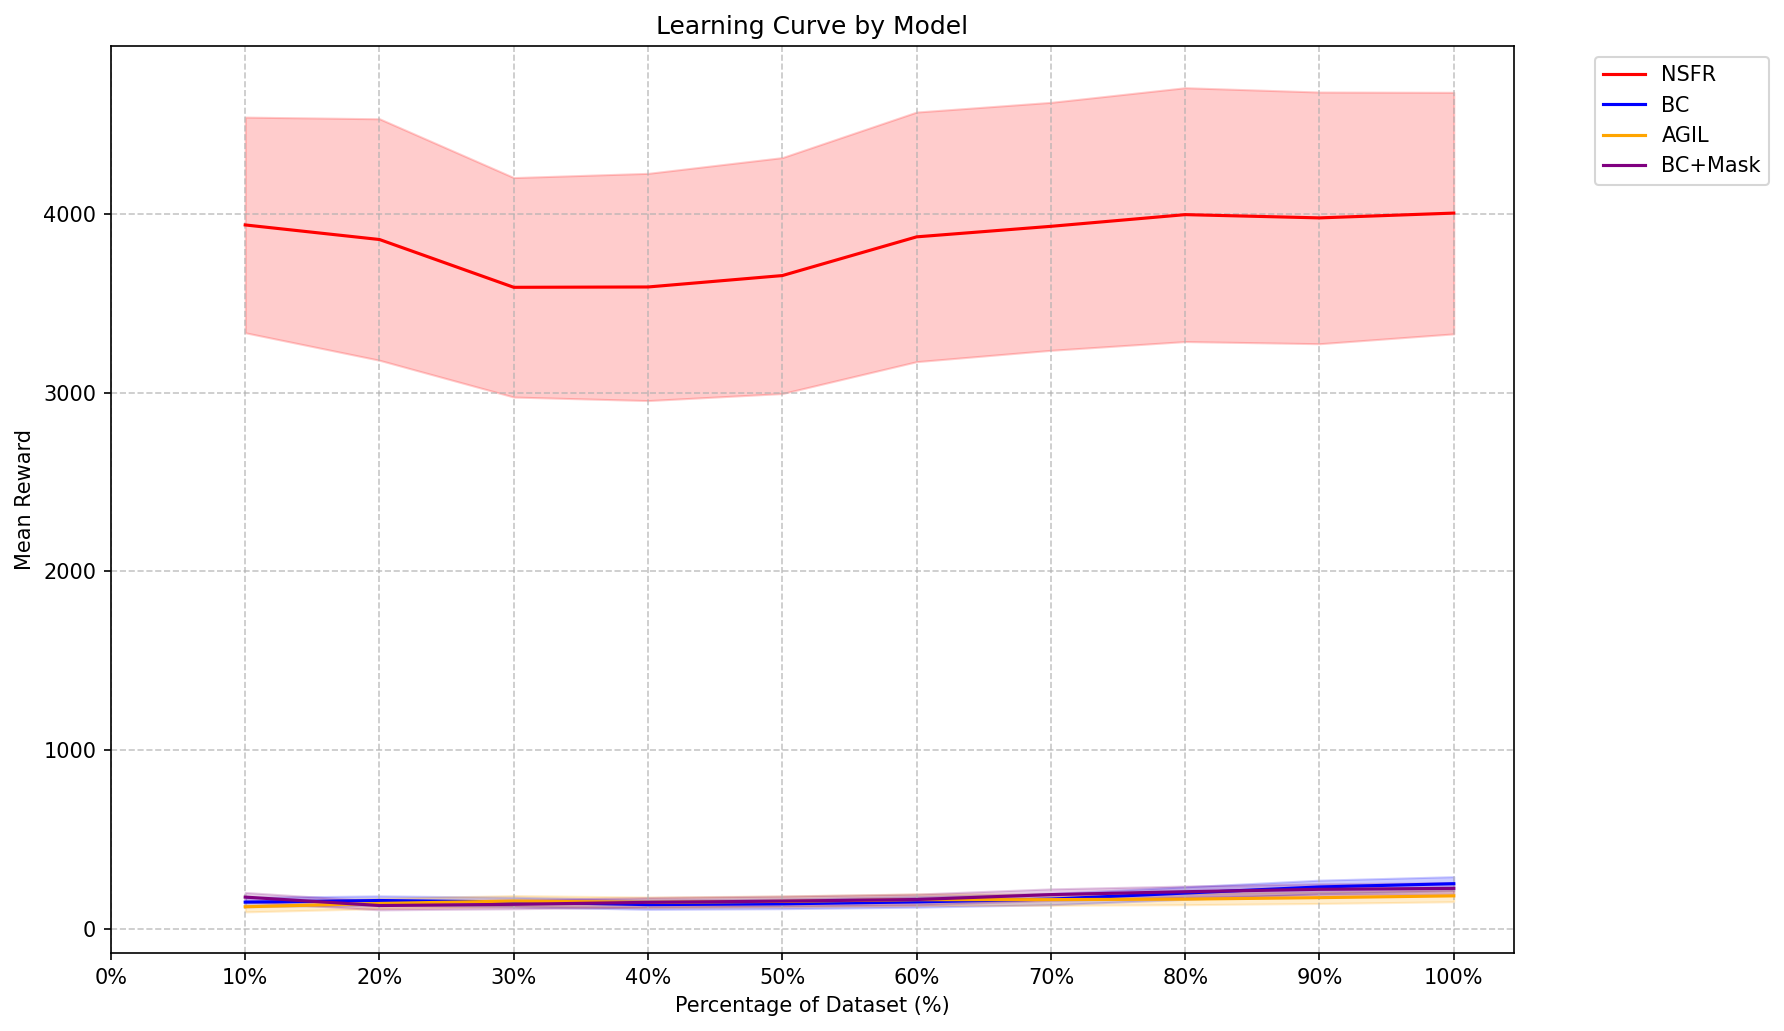
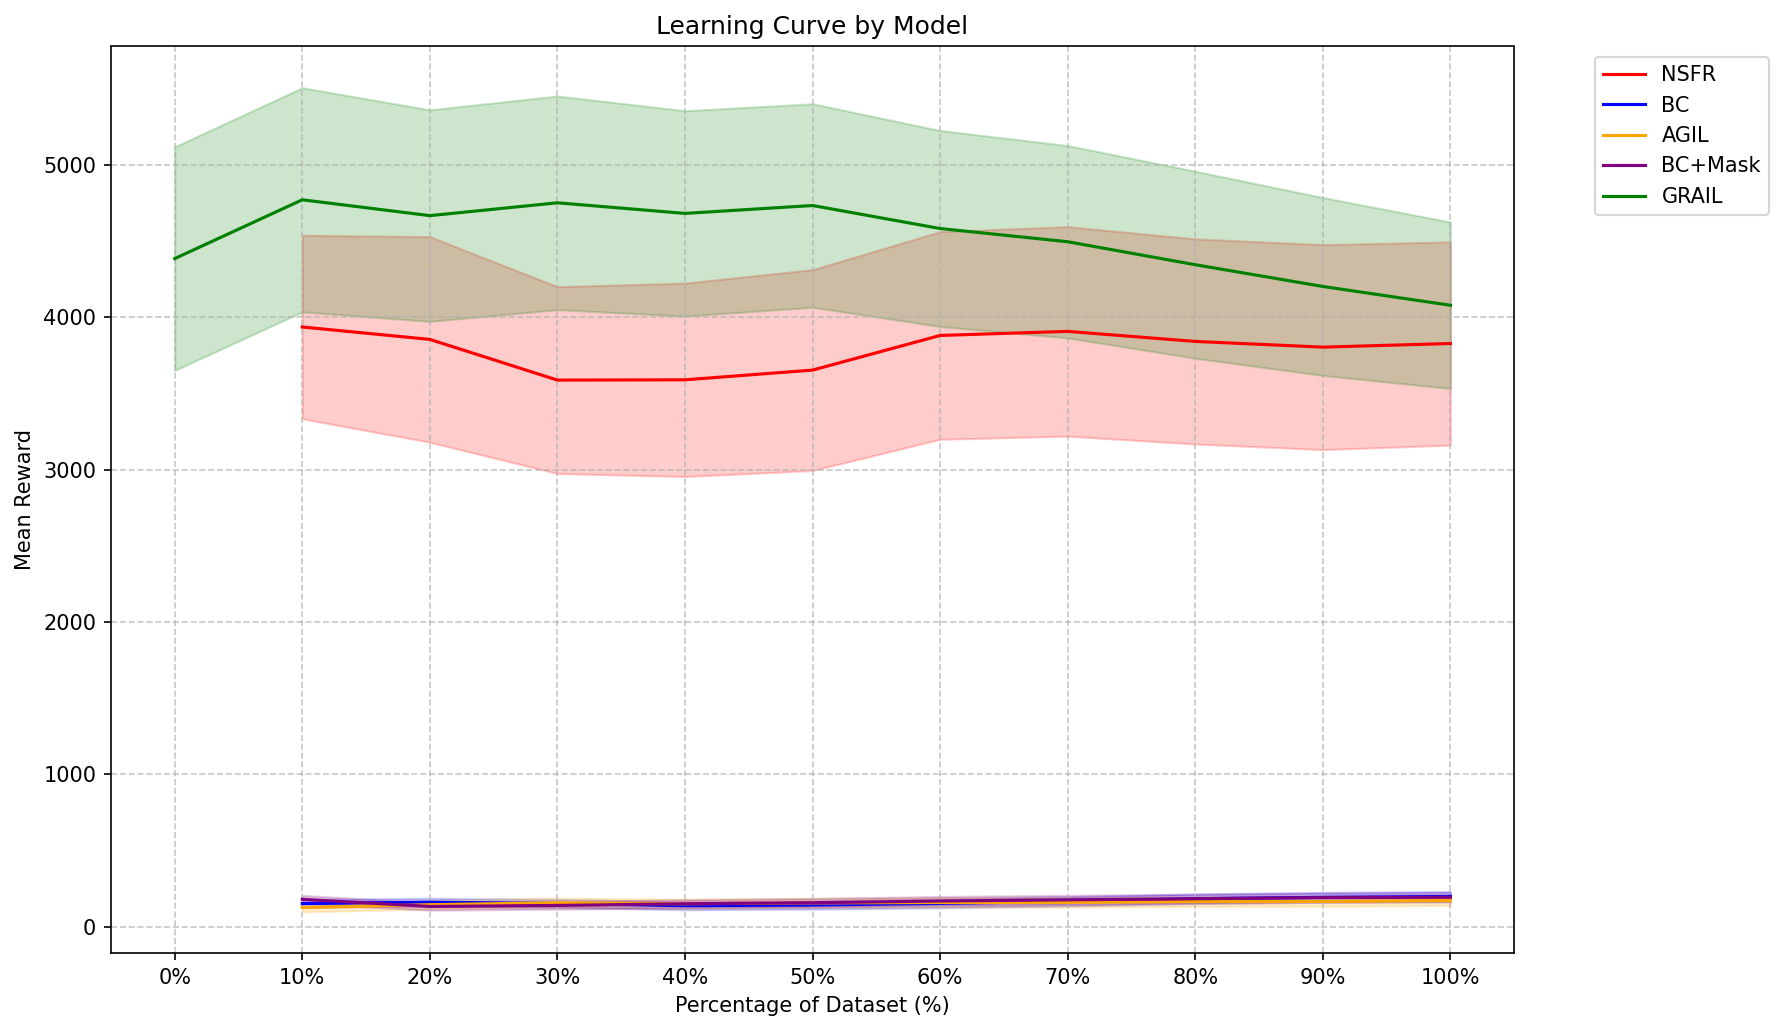
Trained Models

diff --git a/scripts/training/train_il.py b/scripts/training/train_il.py
@@ -320,12 +320,14 @@ def main():
     num_iters = len(unique_eps) if (args.num_episodes is None) and (args.limit is not None) else "full"
     vis_tag = "_vis_only" if visible_preds_only else ""
     alpha_tag = f"_a{alpha}" if alpha is not None else ""
+    init_tag = "random_init" if args.random_init else f"td_{args.target_diagonal}"
+    
     if use_gaze and unnormalized:
-        run_dir   = (f"trained_models/{args.env}/grail/{args.rules}_rules_{args.lr}_lr_{args.loss}_unnormalized{vis_tag}/{num_iters}_ep/{now_time}")
+        run_dir   = (f"trained_models/{args.env}/grail/{args.rules}_rules_{args.lr}_lr_{args.loss}_unnormalized{vis_tag}_{init_tag}/{num_iters}_ep/{now_time}")
     elif use_gaze:
-        run_dir   = (f"trained_models/{args.env}/grail/{args.rules}_rules_{args.lr}_lr_{args.loss}_normalized{vis_tag}{alpha_tag}/{num_iters}_ep/{now_time}")
+        run_dir   = (f"trained_models/{args.env}/grail/{args.rules}_rules_{args.lr}_lr_{args.loss}_normalized{vis_tag}_{init_tag}/{num_iters}_ep/{now_time}")
     else:
-        run_dir   = (f"trained_models/{args.env}/nsfr/{args.rules}_rules_{args.lr}_lr_{args.loss}/{num_iters}_ep/{now_time}")
+        run_dir   = (f"trained_models/{args.env}/nsfr/{args.rules}_rules_{args.lr}_lr_{args.loss}_{init_tag}/{num_iters}_ep/{now_time}")
     os.makedirs(run_dir, exist_ok=True)
     os.makedirs("out/imitation", exist_ok=True)
 

diff --git a/scripts/training/train_il_learning_curve.py b/scripts/training/train_il_learning_curve.py
@@ -231,12 +231,13 @@ def main():
     if args.run_dir:
         base_run_dir = args.run_dir
     else:
+        init_tag = "random_init" if args.random_init else f"td_{args.target_diagonal}"
         if use_gaze and unnormalized:
-            tag = f"grail_unnormalized{vis_tag}_td_{args.target_diagonal}"
+            tag = f"grail_unnormalized{vis_tag}_{init_tag}"
         elif use_gaze:
-            tag = f"grail_normalized{vis_tag}{alpha_tag}_td_{args.target_diagonal}"
+            tag = f"grail_normalized{vis_tag}{alpha_tag}_{init_tag}"
         else:
-            tag = f"nsfr_td_{args.target_diagonal}"
+            tag = f"nsfr_{init_tag}"
         base_run_dir = (
             f"trained_models/{args.env}/{tag}_learning_curve"
             f"_{args.rules}_rules_{args.lr}_lr_{args.loss}"
